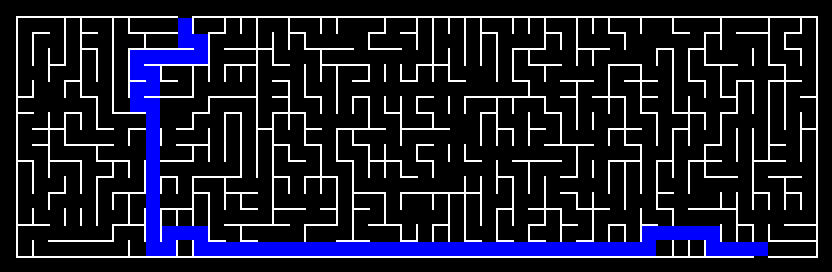
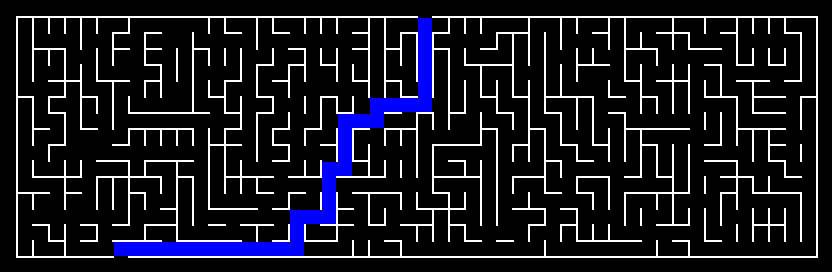
Still GUI v3

diff --git a/src/main/java/com/javamaze/maze/ShowMaze.java b/src/main/java/com/javamaze/maze/ShowMaze.java
@@ -17,12 +17,28 @@ public class ShowMaze extends javax.swing.JPanel implements ComponentListener {
     private Image image;
     private Image imageOriginal;
     private Dimension newSize;
-    private File imageFile = new File("MazeResolved.png");
     private int inset;//size of top title panel
-    private double x1 = -1, x2 = -1, y1 = -1, y2 = -1;
+    private double x1 = -1, x2 = -1, y1 = -1, y2 = -1;//coordinates
     private int[][] maze;
     private double scale;//scale for fitting image
 
+    //function for rescaling image
+    private void Resized() {
+        //-200 is a offset for buttons etc.
+        double size2 = (newSize.getWidth() - 200) / imageOriginal.getWidth(this);
+        double size3 = (newSize.getHeight() - inset) / imageOriginal.getHeight(this);
+        if (size2 < size3) {
+            scale = size2;
+        } else {
+            scale = size3;
+        }
+        //scaled dimensions of image
+        double sc1 = scale * imageOriginal.getWidth(this);
+        double sc2 = scale * imageOriginal.getHeight(this);
+        image=null;
+        image = imageOriginal.getScaledInstance((int) sc1, (int) sc2, Image.SCALE_DEFAULT);
+    }
+    
     @Override
     public void componentHidden(ComponentEvent e) {
     }
@@ -38,18 +54,7 @@ public class ShowMaze extends javax.swing.JPanel implements ComponentListener {
     @Override
     public void componentResized(ComponentEvent e) {
         newSize = e.getComponent().getBounds().getSize();
-        //-200 is a offset for buttons etc.
-        double size2 = (newSize.getWidth() - 200) / imageOriginal.getWidth(this);
-        double size3 = (newSize.getHeight() - inset) / imageOriginal.getHeight(this);
-        if (size2 < size3) {
-            scale = size2;
-        } else {
-            scale = size3;
-        }
-        //scaled dimensions of image
-        double sc1 = scale * imageOriginal.getWidth(this);
-        double sc2 = scale * imageOriginal.getHeight(this);
-        image = imageOriginal.getScaledInstance((int) sc1, (int) sc2, Image.SCALE_DEFAULT);
+        Resized();
     }
 
     private int ScaleCoords(int num) {
@@ -58,6 +63,7 @@ public class ShowMaze extends javax.swing.JPanel implements ComponentListener {
     }
 
     public ShowMaze(int ins, int[][] myMaze) {
+        File imageFile = new File("MazeResolved.png");
         maze = myMaze;
         inset = ins;
         initComponents();
@@ -69,21 +75,40 @@ public class ShowMaze extends javax.swing.JPanel implements ComponentListener {
             e.printStackTrace();
         }
         addMouseListener(new MouseAdapter() {
+            //scale number of pixels after click
             @Override
             public void mousePressed(MouseEvent e) {
+                //-1, bcs it have +1 special col and row for walls
+                int mazeWidth = maze.length - 1;
+                int mazeHeight = maze[0].length - 1;     
+                  System.out.println(mazeWidth+" "+mazeHeight);
                 if (x1 < 0) {
-                    x1 = e.getX() / 16 / scale;
-                    y1 = e.getY() / 16 / scale;
+                    x1 = Math.round(e.getX() / 16 / scale);
+                    y1 = Math.round(e.getY() / 16 / scale);
+                    System.out.println((x1) + " " + (y1));
+                    if ((x1<1) || (x1>mazeWidth) || (y1<1) || (y1>mazeHeight)) {
+                        x1 = y1 = -1;
+                    }
                 } else if (x2 < 0) {
-                    x2 = e.getX() / 16 / scale;
-                    y2 = e.getY() / 16 / scale;
-                    System.out.println((x1) + " " + (y1) + " " + (x2) + " " + (y2));
-System.out.println(maze.length);
-                    System.out.println(Math.round(x1) + " " + Math.round(y1) + " " + Math.round(x2) + " " + Math.round(y2));
-                    MazeSolver solve = new MazeSolver();
-                    solve.SolveMaze(maze,(int) Math.round(x1), (int) Math.round(y1), (int) Math.round(x2), (int) Math.round(y2));
-                    //init again values with -1
-                    x1 = x2 = y1 = y2 = -1;
+                    x2 = Math.round(e.getX() / 16 / scale);
+                    y2 = Math.round(e.getY() / 16 / scale);
+                    if ((x2<1) || (x2>mazeWidth) || (y2<1) || (y2>mazeHeight)) {
+                        x2 = y2 = -1;
+                    } else {
+                        System.out.println((x1) + " " + (y1) + " " + (x2) + " " + (y2));
+                        System.out.println(Math.round(x1) + " " + Math.round(y1) + " " + Math.round(x2) + " " + Math.round(y2));
+                        MazeSolver solve = new MazeSolver();
+                        solve.SolveMaze(maze,(int) x1, (int) y1, (int) x2, (int) y2);
+                        PrintMaze print = new PrintMaze();
+                        print.SaveAsImageResolved(solve.GetPath(), false);
+                        imageOriginal = print.GetImg();
+                        //resize result and refresh JPanel 
+                        Resized();
+                        revalidate();
+                        repaint();
+                        //init values again with -1
+                        x1 = x2 = y1 = y2 = -1;
+                    }
                 }
             }
         });

diff --git a/src/main/java/com/javamaze/maze/PrintMaze.java b/src/main/java/com/javamaze/maze/PrintMaze.java
@@ -10,6 +10,12 @@ import javax.imageio.ImageIO;
 
 public class PrintMaze {
 
+    private BufferedImage img = null;
+    
+    public BufferedImage GetImg() {
+        return img;
+    }
+    
     public void PrintInConsole(int[][] maze) {
         int cols = maze.length;
         int rows = maze[0].length;
@@ -115,8 +121,8 @@ public class PrintMaze {
         return g;
     }
     
-    public void SaveAsImageResolved(ArrayList<Cell> Path, int cols, int rows) {
-        BufferedImage img = null;
+    public void SaveAsImageResolved(ArrayList<Cell> Path, boolean save) {
+        img = null;
         try {
             img = ImageIO.read(new File("MazeUnresolved.png"));
         } catch (IOException e) {
@@ -139,11 +145,13 @@ public class PrintMaze {
             cc=nc;
         }
         graph.dispose();//release resources
-        File file = new File("MazeResolved.png");//make file
-        try {
-            ImageIO.write(img, "png", file);
-        } catch (IOException ex) {
-            System.out.print("Error!");
+        if (save) {
+            File file = new File("MazeResolved.png");//make file
+            try {
+                ImageIO.write(img, "png", file);
+            } catch (IOException ex) {
+                System.out.print("Error!");
+            }
         }
     }
 

diff --git a/src/main/java/com/javamaze/maze/GenSaveSolve.java b/src/main/java/com/javamaze/maze/GenSaveSolve.java
@@ -40,6 +40,6 @@ public class GenSaveSolve {
         MazeSolver solve = new MazeSolver();
         solve.SolveMaze(maze,sx,1,tx,rows);
         path = solve.GetPath();
-        print.SaveAsImageResolved(solve.GetPath(), cols, rows);
+        print.SaveAsImageResolved(solve.GetPath(), true);
     }
 }
